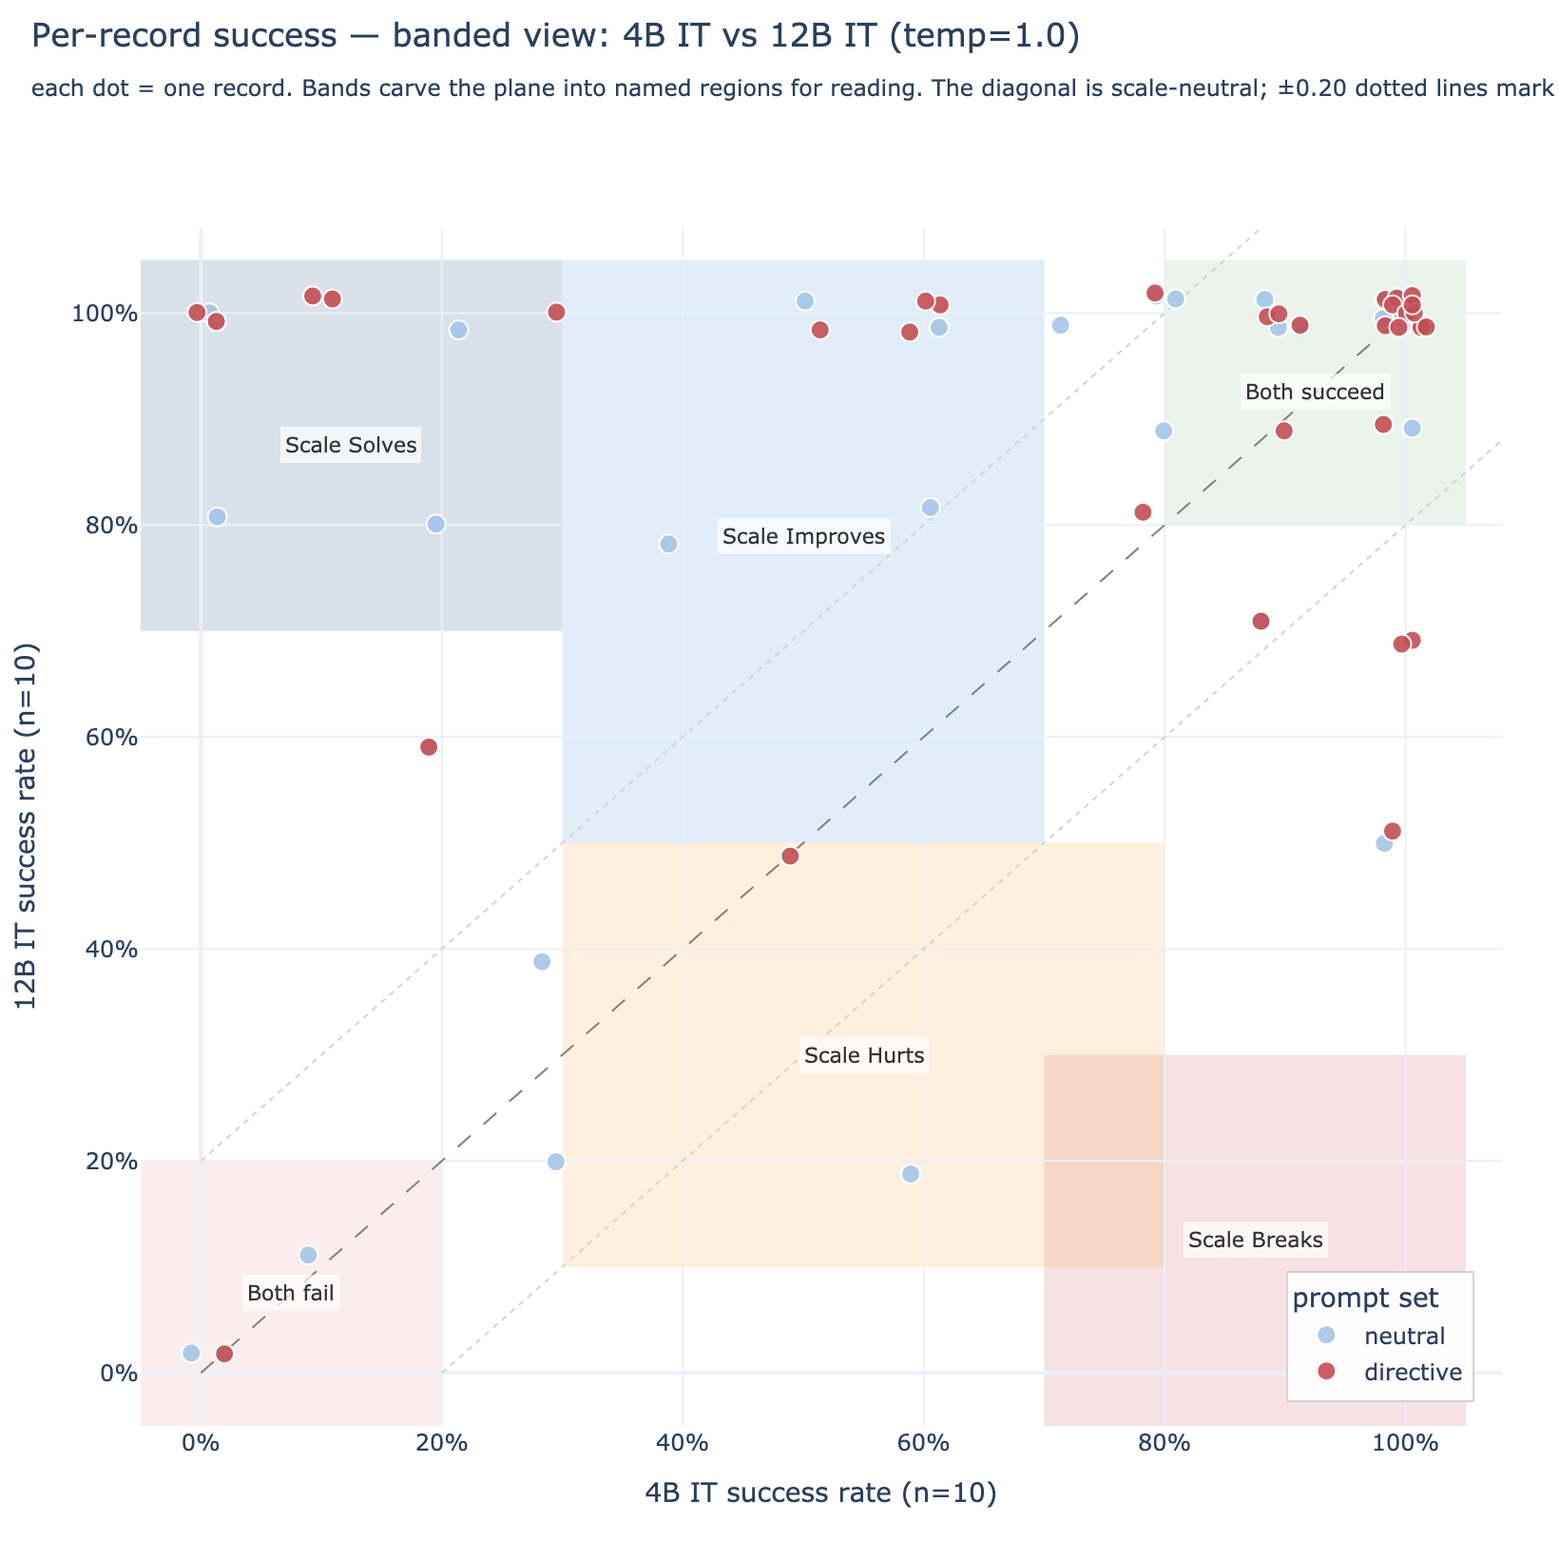
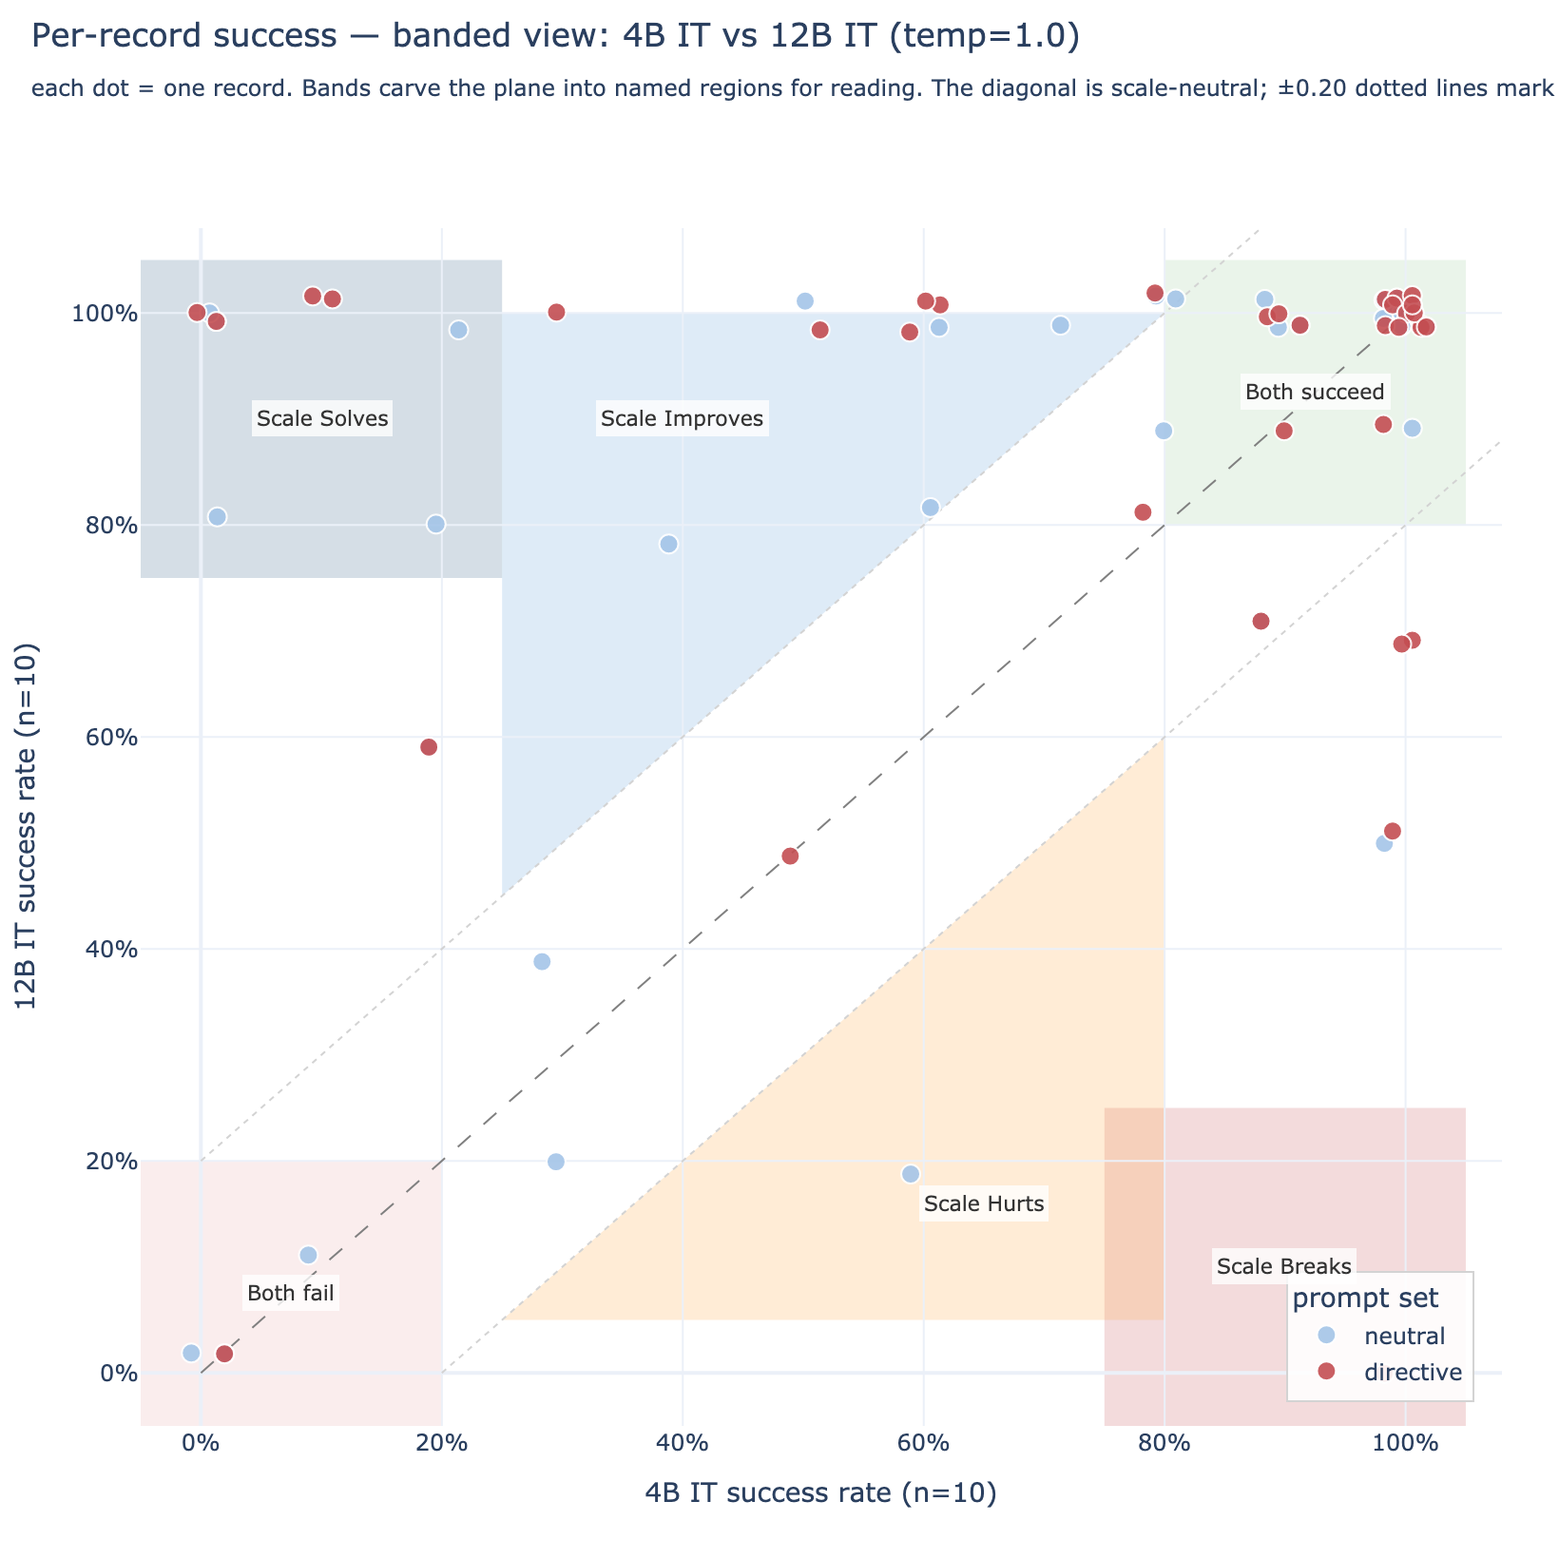
006 followups: figure fixes, doc updates, 007 axes-performativity scaffold
Per reviewer feedback on the 2026-05-12 figure walkthrough.

Figure fixes (studies/001-tool-calibration/investigations/006-temperature-prompt/figures/):
- per_record_scatter_banded.{html,png}: re-rendered with triangular
  "Scale Improves" and "Scale Hurts" regions aligned to the y=x±0.20
  diagonal corridor. Replaces the previous overlapping rectangles
  that didn't lay out intuitively. "Scale Solves" / "Scale Breaks"
  corners stay rectangular.
- curator_vs_empirical_heatmap.{html,png}: removed the dotted
  diagonal reference line (reviewer: didn't help with
  interpretation). Subtitle expanded to flag the model-relative
  empirical bucketing explicitly.

Documentation updates:
- calibration_methodology.md: new paragraph under bucket-thresholds
  making explicit that empirical buckets are model-relative.
  Curator-assigned difficulty_label stays as the model-agnostic
  task-difficulty hypothesis; difficulty_calibrated stores per-model
  empirical labels. Every empirical-difficulty citation must name
  the model.
- metadata.schema.json: difficulty_label field description updated
  to acknowledge the task-difficulty vs tool-call-calibration
  distinction (006 finding) and point at difficulty_calibrated as
  the empirical, model-relative counterpart.
- tool_description_style_guide.md: prepended a calibration-status
  block making explicit the guide is empirically grounded against
  Gemma 3 4B IT (QAT Q4_0). Added "Scale × directive interaction"
[…]

diff --git a/studies/001-tool-calibration/investigations/006-temperature-prompt/figures/per_record_scatter_banded.py b/studies/001-tool-calibration/investigations/006-temperature-prompt/figures/per_record_scatter_banded.py
@@ -78,30 +78,54 @@ def main() -> None:
     all_rids = sorted(set().union(*(d.keys() for d in data.values())))
     fig = go.Figure()
 
-    # ----- shaded region rectangles -----
-    # Layer order matters: shapes draw under traces in Plotly.
-    regions = [
-        # (name, x0, x1, y0, y1, color, annotation_x, annotation_y, anchor)
-        ("Both fail",       -0.05, 0.20, -0.05, 0.20, "rgba(200,80,80,0.10)",   0.075, 0.075, "center"),
-        ("Both succeed",     0.80, 1.05,  0.80, 1.05, "rgba(80,160,80,0.12)",   0.925, 0.925, "center"),
-        ("Scale Solves",    -0.05, 0.30,  0.70, 1.05, "rgba(46,89,132,0.18)",  0.125, 0.875, "center"),
-        ("Scale Improves",   0.30, 0.70,  0.50, 1.05, "rgba(91,155,213,0.18)", 0.50,  0.79,  "center"),
-        ("Scale Hurts",      0.30, 0.80,  0.10, 0.50, "rgba(255,170,70,0.18)", 0.55,  0.30,  "center"),
-        ("Scale Breaks",     0.70, 1.05, -0.05, 0.30, "rgba(196,78,82,0.16)",  0.875, 0.125, "center"),
+    # ----- shaded region polygons -----
+    # Regions are defined relative to the y=x diagonal so they don't
+    # overlap the "similar" corridor. The two large diagonal-aligned
+    # regions ("Scale Improves" / "Scale Hurts") are triangles cut by
+    # y = x ± 0.20 lines. The four corner regions are rectangles for
+    # the extreme cases (both succeed / both fail / Scale Solves /
+    # Scale Breaks).
+    # Layer order: shapes draw under traces in Plotly.
+
+    # Rectangular regions: (name, x0,x1,y0,y1, color, ax,ay)
+    rects = [
+        ("Both fail",      -0.05, 0.20, -0.05, 0.20, "rgba(200,80,80,0.10)",   0.075, 0.075),
+        ("Both succeed",    0.80, 1.05,  0.80, 1.05, "rgba(80,160,80,0.12)",   0.925, 0.925),
+        ("Scale Solves",   -0.05, 0.25,  0.75, 1.05, "rgba(46,89,132,0.20)",   0.10,  0.90),
+        ("Scale Breaks",    0.75, 1.05, -0.05, 0.25, "rgba(196,78,82,0.20)",   0.90,  0.10),
     ]
-    for name, x0, x1, y0, y1, color, ax, ay, anchor in regions:
-        fig.add_shape(type="rect",
-                      x0=x0, x1=x1, y0=y0, y1=y1,
-                      line=dict(width=0),
-                      fillcolor=color,
-                      layer="below")
-        fig.add_annotation(x=ax, y=ay, text=name,
-                           showarrow=False,
+    for name, x0, x1, y0, y1, color, ax, ay in rects:
+        fig.add_shape(type="rect", x0=x0, x1=x1, y0=y0, y1=y1,
+                      line=dict(width=0), fillcolor=color, layer="below")
+        fig.add_annotation(x=ax, y=ay, text=name, showarrow=False,
                            font=dict(size=11, color="#333"),
-                           xanchor=anchor,
-                           yanchor="middle",
-                           bgcolor="rgba(255,255,255,0.7)",
-                           borderpad=2)
+                           bgcolor="rgba(255,255,255,0.78)", borderpad=2)
+
+    # Triangular regions, aligned to the diagonal ±0.20 corridor.
+    # Scale Improves: above y = x+0.20, between Solves corner (x≥0.25)
+    # and Both-Succeed corner (x≤0.80). Triangle (0.25,0.45) →
+    # (0.25,1.0) → (0.80,1.0) closed back to start; (the diagonal
+    # +0.20 line passes through (0.25,0.45) and (0.80,1.00).
+    fig.add_shape(type="path",
+                  path="M 0.25,0.45 L 0.25,1.0 L 0.80,1.0 Z",
+                  line=dict(width=0),
+                  fillcolor="rgba(91,155,213,0.20)",
+                  layer="below")
+    fig.add_annotation(x=0.40, y=0.90, text="Scale Improves",
+                       showarrow=False, font=dict(size=11, color="#333"),
+                       bgcolor="rgba(255,255,255,0.78)", borderpad=2)
+
+    # Scale Hurts: below y = x-0.20, mirror of Scale Improves.
+    # Triangle (0.25,0.05) → (0.80,0.05) → (0.80,0.60) closed; the
+    # diagonal -0.20 line passes through (0.25,0.05) and (0.80,0.60).
+    fig.add_shape(type="path",
+                  path="M 0.25,0.05 L 0.80,0.60 L 0.80,0.05 Z",
+                  line=dict(width=0),
+                  fillcolor="rgba(255,170,70,0.22)",
+                  layer="below")
+    fig.add_annotation(x=0.65, y=0.16, text="Scale Hurts",
+                       showarrow=False, font=dict(size=11, color="#333"),
+                       bgcolor="rgba(255,255,255,0.78)", borderpad=2)
 
     # Diagonal reference
     fig.add_trace(go.Scatter(

diff --git a/studies/001-tool-calibration/harness/runner.py b/studies/001-tool-calibration/harness/runner.py
@@ -47,8 +47,9 @@ def _safe_model_id(model: str) -> str:
     return re.sub(r"[^a-zA-Z0-9._-]", "_", model)
 
 
-def _load_records() -> list[dict]:
-    return [json.loads(line) for line in SEEDS_PATH.read_text().splitlines() if line]
+def _load_records(path: Path | None = None) -> list[dict]:
+    p = path or SEEDS_PATH
+    return [json.loads(line) for line in p.read_text().splitlines() if line]
 
 
 def main() -> int:
@@ -77,11 +78,17 @@ def main() -> int:
                    help="Optional filename prefix for the results file. Without this, "
                         "results land at results/<model>/<date>.jsonl. With --results-tag X, "
                         "the file becomes results/<model>/<X>_<date>.jsonl.")
+    p.add_argument("--seeds", default=None,
+                   help="Path to the seed corpus JSONL. Defaults to "
+                        "studies/001-tool-calibration/seeds.jsonl (the A1 hand-curated set). "
+                        "Pass `../../bulk_seeds.jsonl` (or any other JSONL conforming to "
+                        "the metadata schema) to grade an alternate corpus.")
     args = p.parse_args()
 
     backend = get_backend(args.backend)
     manifest = load_system_prompt_manifest(SYSTEM_PROMPTS_MANIFEST)
-    records = _load_records()
+    seeds_path = Path(args.seeds).resolve() if args.seeds else None
+    records = _load_records(seeds_path)
     if args.limit is not None:
         records = records[: args.limit]
 

diff --git a/studies/001-tool-calibration/investigations/006-temperature-prompt/figures/curator_vs_empirical_heatmap.py b/studies/001-tool-calibration/investigations/006-temperature-prompt/figures/curator_vs_empirical_heatmap.py
@@ -123,22 +123,13 @@ def main() -> None:
             hovertemplate="%{hovertext}<extra></extra>",
             xgap=2, ygap=2,
         ), row=1, col=idx)
-        # Diagonal reference: an arrow from top-left to bottom-right of the
-        # ordinal axes (rendered as a Scatter overlay in axis coords).
-        fig.add_trace(go.Scatter(
-            x=BUCKETS,
-            y=BUCKETS,
-            mode="lines",
-            line=dict(color="rgba(0,0,0,0.3)", dash="dash", width=1),
-            showlegend=False,
-            hoverinfo="skip",
-        ), row=1, col=idx)
 
     fig.update_layout(
         title=dict(text=(
             "Curator-assigned vs. empirical difficulty (Cell C, n=10)<br>"
             "<sub>Rows = curator bucket. Cols = empirical bucket from Cell C success_rate. "
-            "Diagonal = perfect prediction.</sub>"
+            "Empirical bucketing is model-relative — sr→bucket thresholds are absolute but the "
+            "underlying success rate depends on the model.</sub>"
         ), y=0.97, x=0.02, xanchor="left", yanchor="top"),
         template="plotly_white",
         width=1080,

diff --git a/studies/001-tool-calibration/investigations/007-axes-performativity/investigation.md b/studies/001-tool-calibration/investigations/007-axes-performativity/investigation.md
@@ -1,0 +1,148 @@
+---
+id: studies/001-tool-calibration/investigations/007-axes-performativity
+title: Axes performativity — do our difficulty axes predict tool-call calibration?
+status: planned
+parents:
+  - studies/001-tool-calibration
+children: []
+related:
+  - studies/001-tool-calibration/investigations/002-difficulty-axes
+  - studies/001-tool-calibration/investigations/004-calibration-pilot
+  - studies/001-tool-calibration/investigations/006-temperature-prompt
+axes:
+  llm_capability: medium
+  human_capability: high
+tags:
+  - methodology
+  - axes
+  - empirical-difficulty
+aliases:
+  - 007
+  - axes-perf
+created: 2026-05-12
+updated: 2026-05-12
+---
+
+# Investigation 7 — Axes performativity
+
+## Scope
+
+Investigation 006 surfaced (F3, F4, F5) that the per-tool difficulty
+axes frozen in 002 Decision 1 **do not predict** empirical tool-call
+success on the A1 seed corpus. Records the curator labeled `hard`
+land empirically in `trivial` for both 4B and 12B at neutral
+temp=1.0; the diagonal of the curator×empirical heatmap is largely
+empty.
+
+This investigation asks two distinct questions, both load-bearing
+for downstream calibration work:
+
+1. **Diagnosis**: *why* don't the axes predict? Specifically, what
+   *do* they predict (if anything), and what gap exists between
+   "what the axes measure" (task difficulty) and "what our score
+   measures" (tool-call decision)?
+
+2. **Reformulation**: if the existing axes don't predict
+   tool-call calibration, what set of axes / features *would*?
+   Output: a candidate revised axis set, ideally validated on a
+   held-out subset of the bulk corpus.
+
+The framing distinction (from 006's analysis):
+- **Task difficulty** (what 002's axes describe): could the model,
+  in principle, solve the task without tools? Operand digit count,
+  algorithm complexity, fact obscurity, etc.
+- **Tool-call calibration** (what classify_trial measures): does
+  the model's tool-invocation behavior match the curator's
+  expected_tool_call? Driven by prompt surface features
+  ("Compute X" triggers calc), refusal priors, training-data
+  patterns.
+
+These are not the same property. The axes-performativity
+investigation tests this empirically and then proposes the
+right-shaped axis system for what we're actually measuring.
+
+## Methods
+
+1. **Re-tag the A1 + bulk corpus with empirical difficulty.** Once
+   A4 grading finishes (4B IT and 12B IT against `bulk_seeds.jsonl`
+   under neutral baseline at temp=1.0, n=10), compute per-record
+   `empirical_difficulty[model_id]` via `calibration_methodology.md`
+   thresholds. Note that empirical bucketing is model-relative;
+   the same record will have different per-model labels.
+
+2. **Quantify predictive power.** For each pair (axis, model),
+   compute the rank correlation between axis-derived predicted
+   difficulty and empirical success rate. Where do the axes
+   succeed? Where do they fail systematically?
+
+3. **Discover predictors.** Hypothesis-driven feature engineering:
+   propose candidate predictors for tool-call success
+   (prompt-surface keywords, in-prompt-answer flags, refusal-mode
+   triggers, tool-target ambiguity, training-cutoff distance). For
+   each, test correlation with empirical success.
+
+4. **Validate on held-out.** Hold out ~10% of the bulk corpus.
+   Train (informally) a small classifier on the rest. Test on the
+   held-out set. Report accuracy + per-tool breakdown.
+
+5. **Synthesize.** Produce a revised axis-set proposal (analogue
+   to 002's `difficulty_axes_proposal.md`) targeting tool-call
+   calibration directly. Mark in writeup which 002 axes survive
+   and which are superseded.
+
+## Decisions
+
+_Populate as work proceeds._
+
+## Results
+
+_Pending Phase A4 grading of `bulk_seeds.jsonl`._
+
+Preliminary signal already visible in 006 F3/F4/F5 (n=18 corpus):
+- Curator `hard` → empirical `trivial` for ~9/15 records at 12B,
+  ~5/15 at 4B.
+- `python_execute` records are over-represented in the empirically-
+  hard tail; `general_knowledge_lookup` and `user_knowledge_lookup`
+  cluster at the top of empirical success regardless of curator
+  label. Reviewer observation in 006 commit: "I find it really
+  interesting that the General Knowledge and User Knowledge don't
+  fall under Extremely hard ever from an empirical perspective..."
+- A1 corpus is missing `easy` and `extreme` curator labels
+  entirely — the bulk corpus (003) fills these in.
+
+## Forward-looking
+
+- **The new axes proposal will likely live as Decision 1 of this
+  investigation** once the empirical work is in. Don't pre-judge
+  what the axes are; let the data drive.
+- If the answer is "no single axis system predicts well; success
+  is dominated by record-specific surface features," the practical
+  output may be a feature library + a small classifier rather than
+  a clean axis taxonomy. Worth signaling this honestly in the
+  writeup.
+
+## Things to flag
+
+- Reviewer-flagged finding (2026-05-12): "we'll want to update our
+  documentation of tasks so the empirical gradings are
+  model-relative." Done in `calibration_methodology.md` —
+  empirical bucketing is per-model by design. Methodologically,
+  every empirical-difficulty citation must name the model.
+- Reviewer interest in the **gkl/ukl never empirically extreme**
+  observation. Likely explanation: gkl/ukl records have a clear
+  cognitive moment ("model can't possibly know this from training,
+  so the right move is to call the tool"), and even partial
+  recognition gets the model to a high success rate. Whereas
+  python_execute records require the model to (a) recognize a
+  tool is needed AND (b) pick the right tool — two-stage
+  failure mode. Worth testing this hypothesis explicitly.
+
+## Limitations
+
+- This investigation requires Phase A4 grading of the bulk corpus
+  to have enough data to test rank correlations and validate any
+  candidate predictors. Until then, the work is preliminary on
+  n=18 / n=36 record sets.
+- Any "predictor library" produced here is calibrated to the
+  Gemma 3 4B / 12B IT model family. Cross-family transfer is not
+  tested.

diff --git a/studies/001-tool-calibration/tool_description_style_guide.md b/studies/001-tool-calibration/tool_description_style_guide.md
@@ -1,14 +1,48 @@
 # Tool description style guide
 
-Distilled from the 005 single-tool A/B experiments and the 006
-temperature × prompt 2×2 (both against Gemma 3 4B IT, QAT Q4_0).
-These are empirically-grounded patterns for writing tool
-descriptions intended to be invoked correctly by weak-to-mid-size
-instruction-tuned models.
+> **Calibration status (2026-05-12)**: this guide is empirically
+> grounded against **Gemma 3 4B IT (QAT Q4_0)** on the 18-pair A1
+> seed corpus. The 12B IT 2×2 in 006 surfaced that several
+> patterns here interact non-trivially with model scale — see
+> "Scale × directive interaction" below. **Test every pattern at
+> your target model scale before relying on it in production.**
 
-The guide is provisional — current evidence is one model family
-(Gemma 3 4B IT) on the 18-pair A1 seed corpus. Expect revisions as
-12B and other model results come in.
+Distilled from the 005 single-tool A/B experiments and the 006
+temperature × prompt 2×2. These are empirically-grounded patterns
+for writing tool descriptions intended to be invoked correctly by
+instruction-tuned models in the 4B–12B Gemma 3 class. Patterns may
+generalize to other model families but have not been validated
+there.
+
+## Scale × directive interaction (read this first)
+
+The 006 4B-vs-12B comparison found that scaling 4B→12B doesn't
+strictly improve calibration when prescriptive prompts are
+involved. Specific patterns observed at 12B IT under directive:
+
+- **Literal over-application**: "use calculator for arithmetic"
+  caused 12B to call calc on "5 × 9"; 4B respected the
+  accompanying "skip for trivial" clause. The larger model follows
+  the imperative more rigidly.
+- **More escape routes**: 12B invented behaviors 4B did not —
+  Socratic deflection ("could you tell me who Aunt Nina is?"),
+  wrong-tool selection (`general_knowledge_lookup` for personal
+  info), training-distribution confidence bypassing the tool path.
+  Each prescriptive clause that closes one route gives the model
+  more cognitive surface to invent the next.
+- **Confidence under uncertainty**: 12B will answer from training
+  distribution despite anti-refusal framing — it's confident
+  enough in its memory to bypass the tool path.
+
+**Practical guidance:**
+- Test every prescriptive clause at your target model scale. A
+  clause that works on 4B can backfire at 12B.
+- Prefer clauses with explicit *both* sides (positive condition +
+  skip clause) — they're more robust across scale than positive-
+  only directives.
+- If you're targeting a model larger than 12B (or any unfamiliar
+  family), expect the calibration map to shift. Re-run A/B at the
+  target before committing.
 
 ---
 

diff --git a/studies/001-tool-calibration/investigations/002-difficulty-axes/calibration_methodology.md b/studies/001-tool-calibration/investigations/002-difficulty-axes/calibration_methodology.md
@@ -87,6 +87,19 @@ is the calibration boundary). Boundaries are defaults — revisit if
 post-hoc analysis on the bulk corpus shows bimodal or non-monotone
 behavior.
 
+**Empirical buckets are model-relative.** The thresholds above are
+applied to a `success_rate` derived from trials against a *specific
+target model*. A record empirically classified as "trivial" for 12B
+IT may be "medium" or "hard" for 4B IT — the same record, different
+model. This is **by design**: the data model already stores
+empirical difficulty per-model (see `difficulty_calibrated`
+schema field, keyed by `model_id`). When citing an empirical
+difficulty in a writeup, always name the model. Curator-assigned
+`difficulty_label.value` remains intended as a model-agnostic
+task-difficulty *hypothesis* (Decision 13 in 001-foundations);
+empirical labels do not replace it but provide a per-model
+counterpart.
+
 ## Trial count
 
 Default `n = 20` per (record, model). Standard error of a binomial

diff --git a/studies/001-tool-calibration/study.md b/studies/001-tool-calibration/study.md
@@ -10,6 +10,7 @@ children:
   - studies/001-tool-calibration/investigations/004-calibration-pilot
   - studies/001-tool-calibration/investigations/005-tool-spec-optimization
   - studies/001-tool-calibration/investigations/006-temperature-prompt
+  - studies/001-tool-calibration/investigations/007-axes-performativity
 related: []
 axes:
   llm_capability: medium
